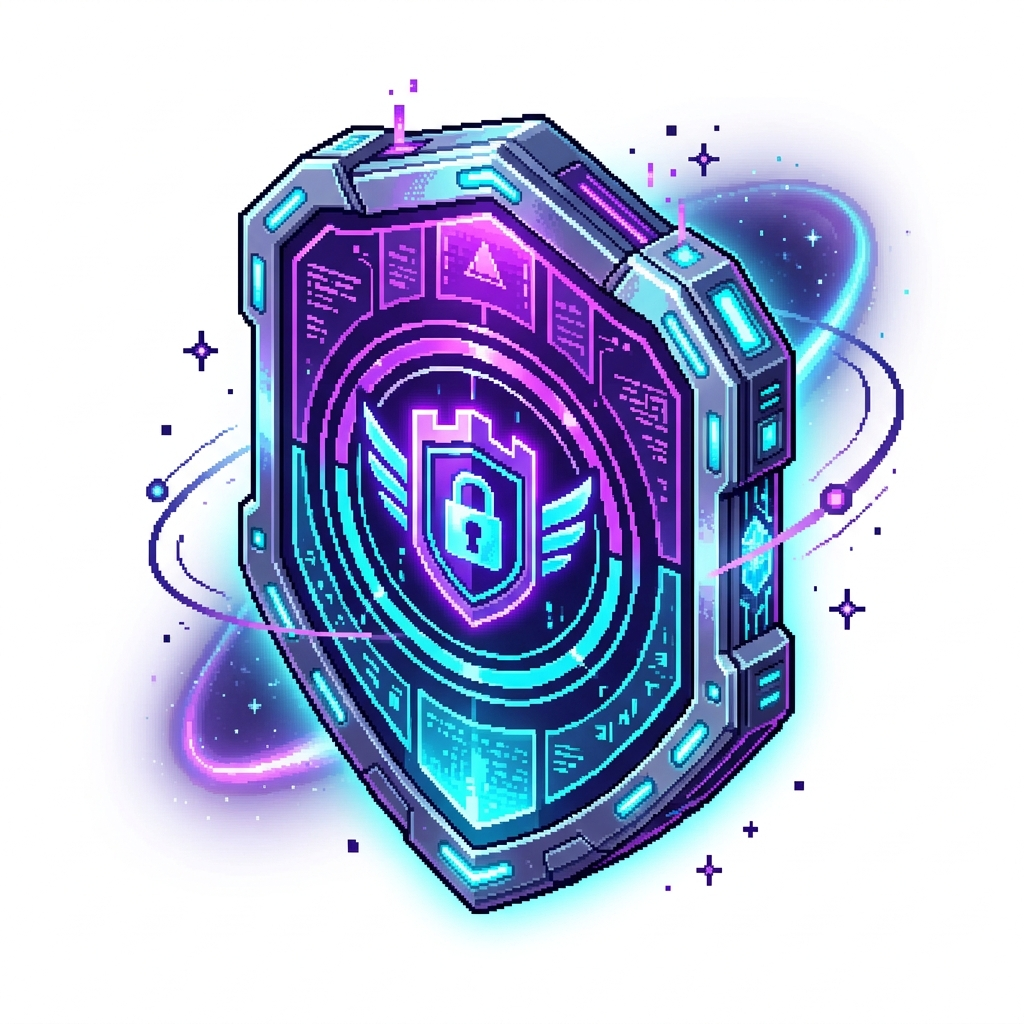
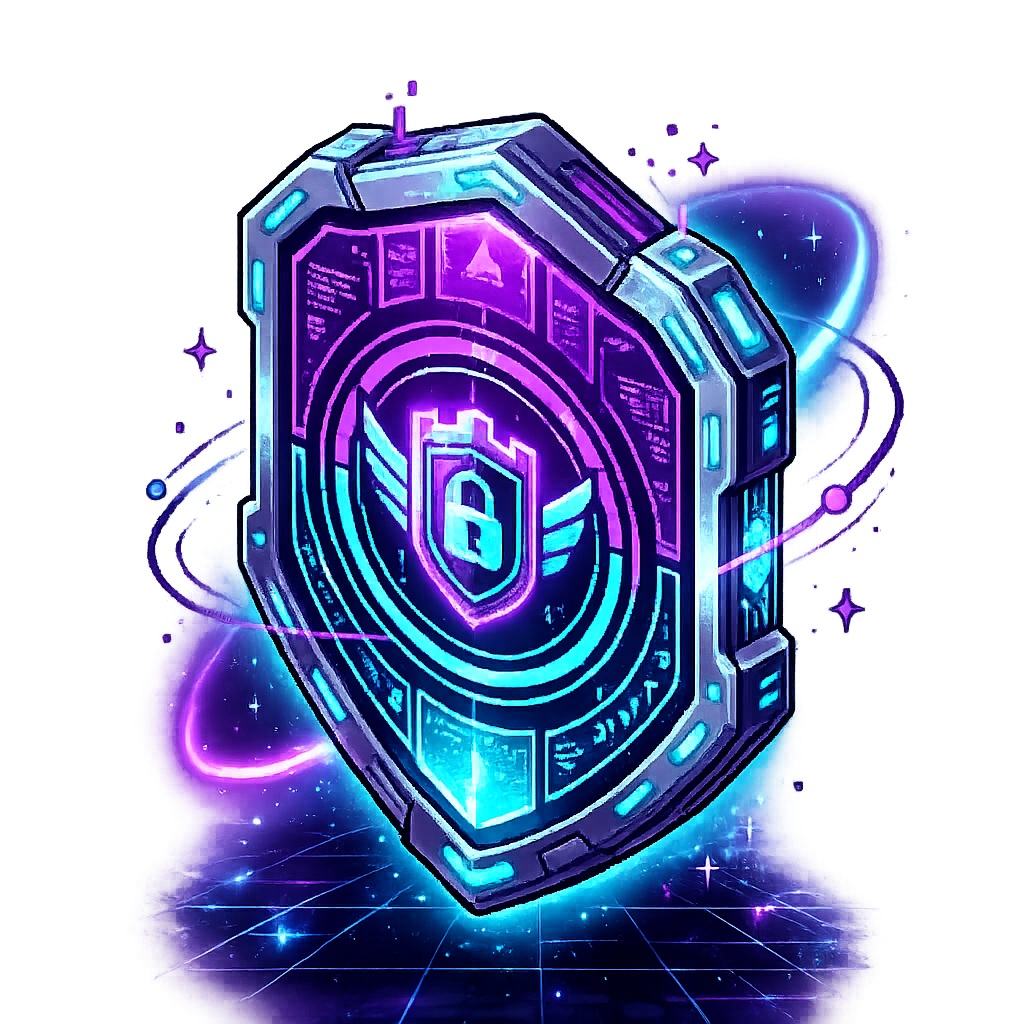
Remove Persistent Identity section from landing page

diff --git a/react-version/src/components/LandingPage.jsx b/react-version/src/components/LandingPage.jsx
@@ -399,26 +399,6 @@ export default function LandingPage({ onPlayNow }) {
       </div>
     </motion.section>
 
-    {/* PERSISTENT IDENTITY SECTION */}
-    <motion.section className="section-alt-dark relative overflow-hidden py-32" {...revealUp}>
-      <div className="max-w-4xl mx-auto px-6 text-center relative z-10">
-        <span className="text-gold font-pixel text-[10px] sm:text-xs tracking-widest uppercase mb-6 block drop-shadow-[0_0_10px_gold/0.5]">Ecosystem Superpower</span>
-        <h2 className="font-pixel text-2xl sm:text-4xl lg:text-5xl uppercase mb-8 leading-tight drop-shadow-[0_0_20px_white/0.2]">
-          One Identity.<br />
-          <span className="text-cyan-glow">Infinite Progression.</span>
-        </h2>
-        <p className="text-base sm:text-lg text-muted-foreground mb-12 max-w-2xl mx-auto leading-relaxed">
-          Your assets, achievements, and progression live permanently onchain.<br className="hidden sm:block" />
-          This is your hidden superpower across the entire <span className="text-gold">Kult Ecosystem.</span>
-        </p>
-        <div className="flex flex-center justify-center">
-            <div className="px-6 py-3 border border-cyan-glow/20 rounded-full bg-cyan-glow/5 backdrop-blur-sm">
-              <span className="text-cyan-glow font-pixel text-[10px] uppercase tracking-[0.2em]">Verified by 0G Storage Protocol</span>
-            </div>
-        </div>
-      </div>
-    </motion.section>
-
       {/* BUILT FOR THE FUTURE */}
       <motion.section id="about" className="section-alt-bright" {...revealLeft}>
         <div className="max-w-7xl mx-auto px-6 grid lg:grid-cols-[1fr_1.4fr] gap-12 items-center">

diff --git a/0g.md b/0g.md
@@ -1,0 +1,66 @@
+# 🌌 0G Network Integration in Zero Dash
+
+Zero Dash leverages the full power of the **0G Network**—the first decentralized AI operating system—to provide a high-performance, verifiable, and secure gaming experience. This document outlines how **Data Availability (DA)**, **Storage**, and **Compute** are integrated into the Zero Dash ecosystem.
+
+---
+
+## 🛰️ 0G Data Availability (DA)
+**High-throughput verification for real-time gaming.**
+
+In Zero Dash, the **0G DA** layer acts as the source of truth for all game sessions and player milestones.
+
+- **Game Session Verification:** Every time a player completes a run or hits a significant checkpoint, the session data is passed through the `0g DA pipeline`.
+- **Anti-Cheat Logic:** By ensuring data availability, the 0G DA layer prevents "invisible" state manipulation. The system verifies that the game state matches the reported score before committing it to the leaderboard.
+- **UI Integration:** The `UserProfileSidebar` and `RealTimeLeaderboard` feature a "DA Heartbeat" indicator, providing real-time cryptographic proof that your progress is being verified by the 0G Network.
+
+> **Technical Implementation:**
+> - Handled via the `ZG_BACKEND` gateway.
+> - Verified in `GameCanvas.jsx` and displayed in `UserProfileSidebar.jsx`.
+
+---
+
+## 💾 0G Storage
+**Immutable, decentralized storage for player history.**
+
+While traditional assets might live on CDNs for speed, all **critical player data** is anchored in **0G Storage**.
+
+- **Milestone Snapshots:** When you reach a new rank or unlock a rare achievement, a snapshot of your player state is stored on 0G.
+- **Permanent Records:** Unlike centralized databases that can be wiped, game achievements backed by 0G (`saveBackedBy0g`) are immutable and permanently accessible.
+- **Decentralized Metadata:** The "Zero Dash Pass" NFT metadata and associated player assets are stored using 0G's decentralized storage architecture, ensuring they are always available and tamper-proof.
+
+---
+
+## 🧠 0G Compute
+**Decentralized AI for dynamic game intelligence.**
+
+Zero Dash uses **0G Compute** to power its AI-driven features without relying on centralized, privacy-invasive providers.
+
+- **AI Bot Mike:** The in-game coach, "Mike," utilizes 0G Compute for real-time analysis of player performance.
+- **In-Browser Privacy:** By routing AI requests through the 0G Compute layer via our secure backend, we eliminate the need to store sensitive API keys in the client’s browser.
+- **Dynamic Difficulty:** 0G Compute analyzes player patterns to suggest difficulty adjustments, ensuring the game remains challenging yet fair.
+
+---
+
+## ⛓️ 0G Blockchain (EVM Layer)
+**The economic engine of Zero Dash.**
+
+The entire game economy is anchored on the **0G Mainnet**, providing a seamless Web3 experience.
+
+- **Zero Gas Minting:** Users can mint the "Zero Dash Pass" NFT with **Zero Gas Fees**. The 0G architecture allows for sponsored transactions, removing the biggest barrier to entry for new players.
+- **Identity & Auth:** Players authenticate using 0G-compatible wallets (like Zerion), creating a persistent, cross-platform gaming identity.
+- **Verifiable Transactions:** Every mint, upgrade, and major milestone can be tracked on the [0G Chain Explorer](https://chainscan.0g.ai).
+
+---
+
+## 🛠️ Summary of Key Components
+
+| Feature | 0G Component | Purpose |
+|:--- |:--- |:--- |
+| **Anti-Cheat** | 0G DA | Real-time session verification |
+| **Player History** | 0G Storage | Permanent, immutable milestones |
+| **AI Coach Mike** | 0G Compute | Decentralized AI intelligence |
+| **NFT Pass** | 0G Blockchain | Gasless, on-chain ownership |
+
+---
+
+*This document is maintained as part of the Zero Dash technical specifications. For more information on the 0G Network, visit [0g.ai](https://0g.ai).*